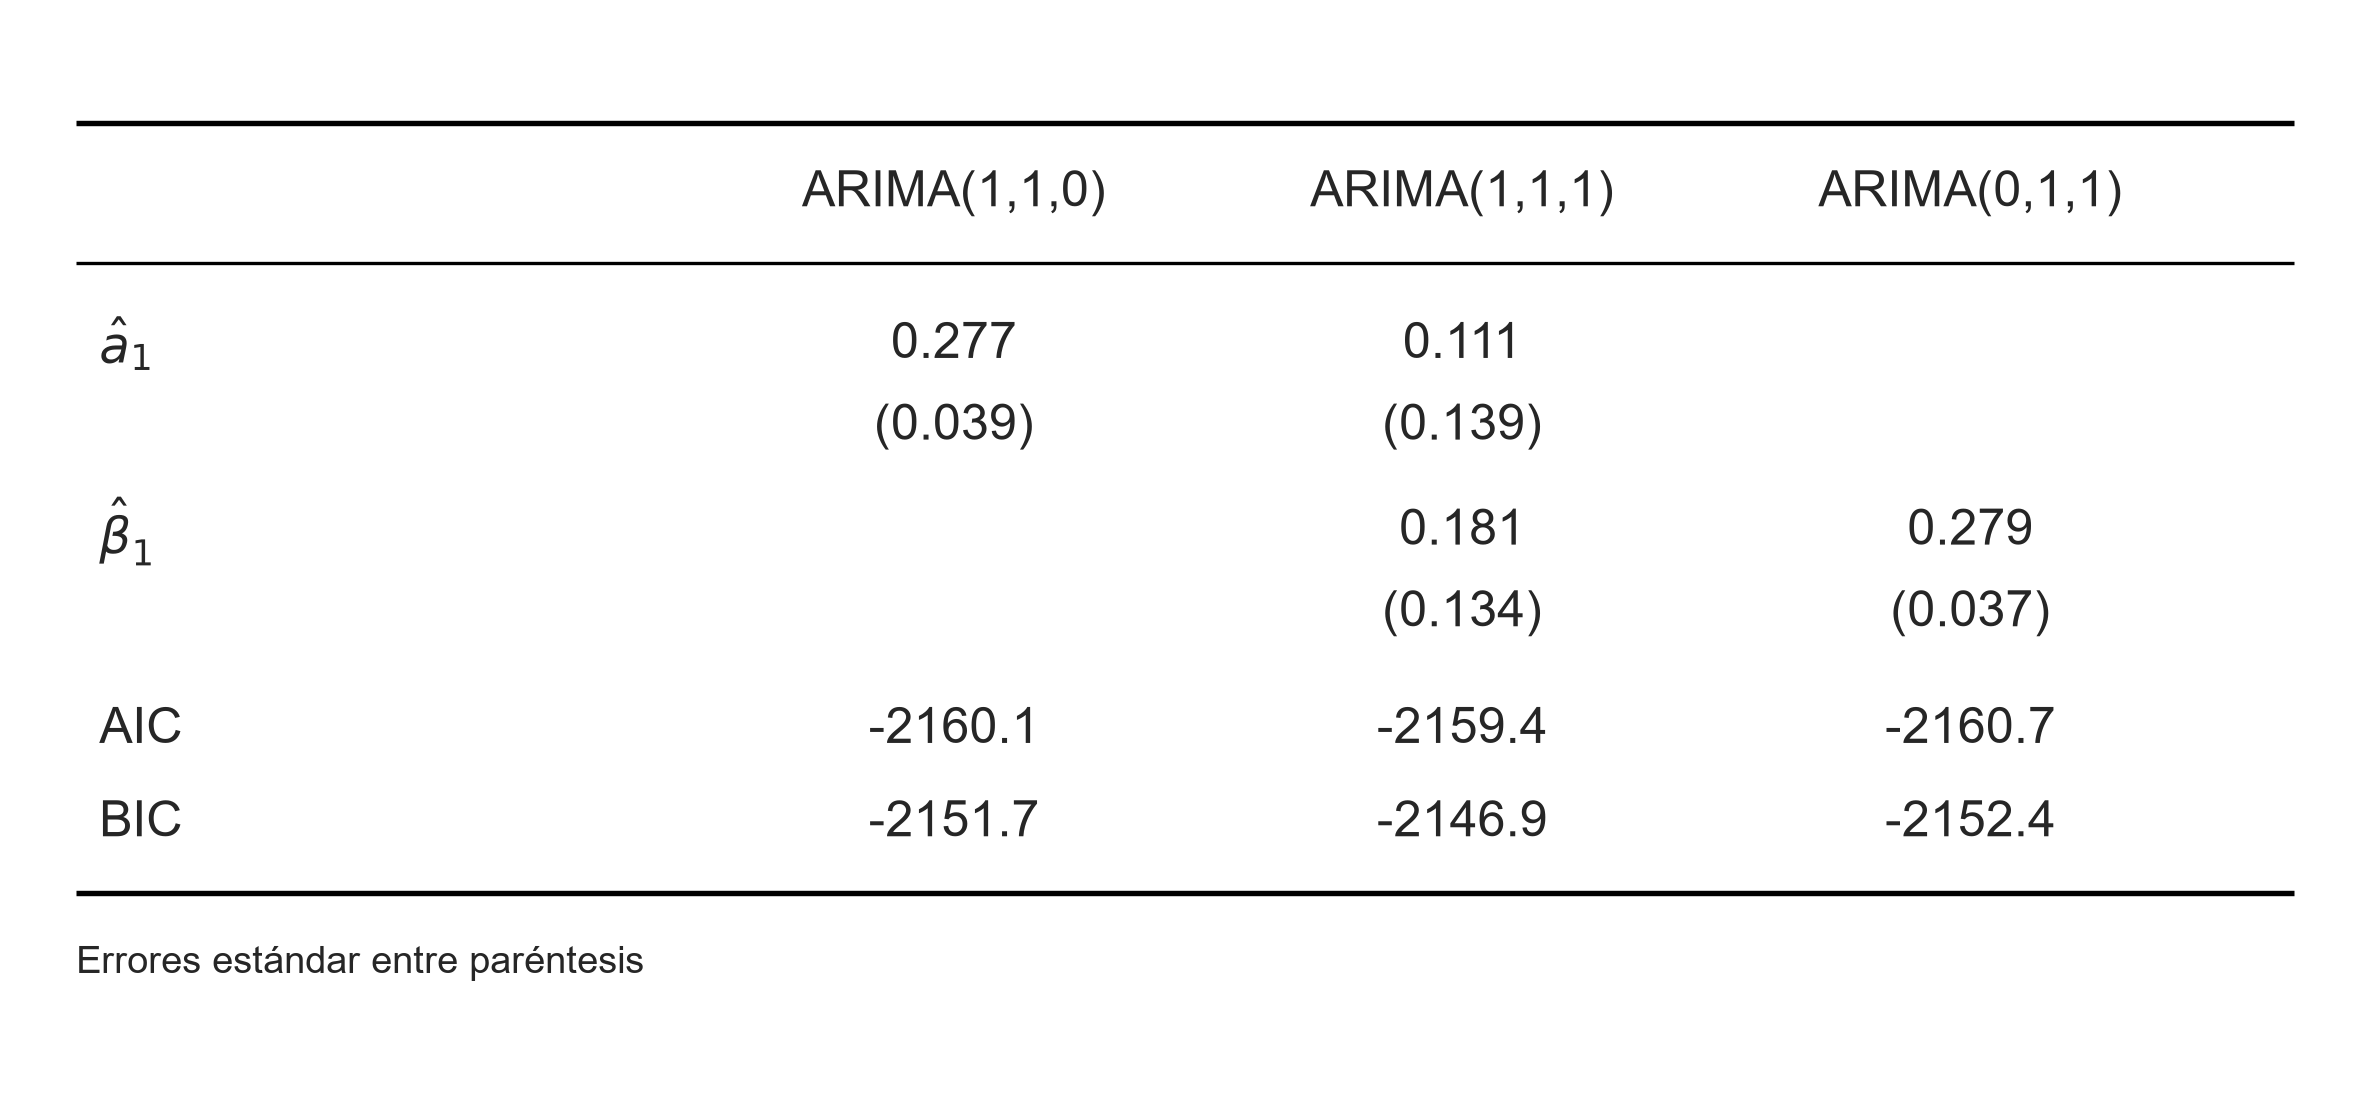
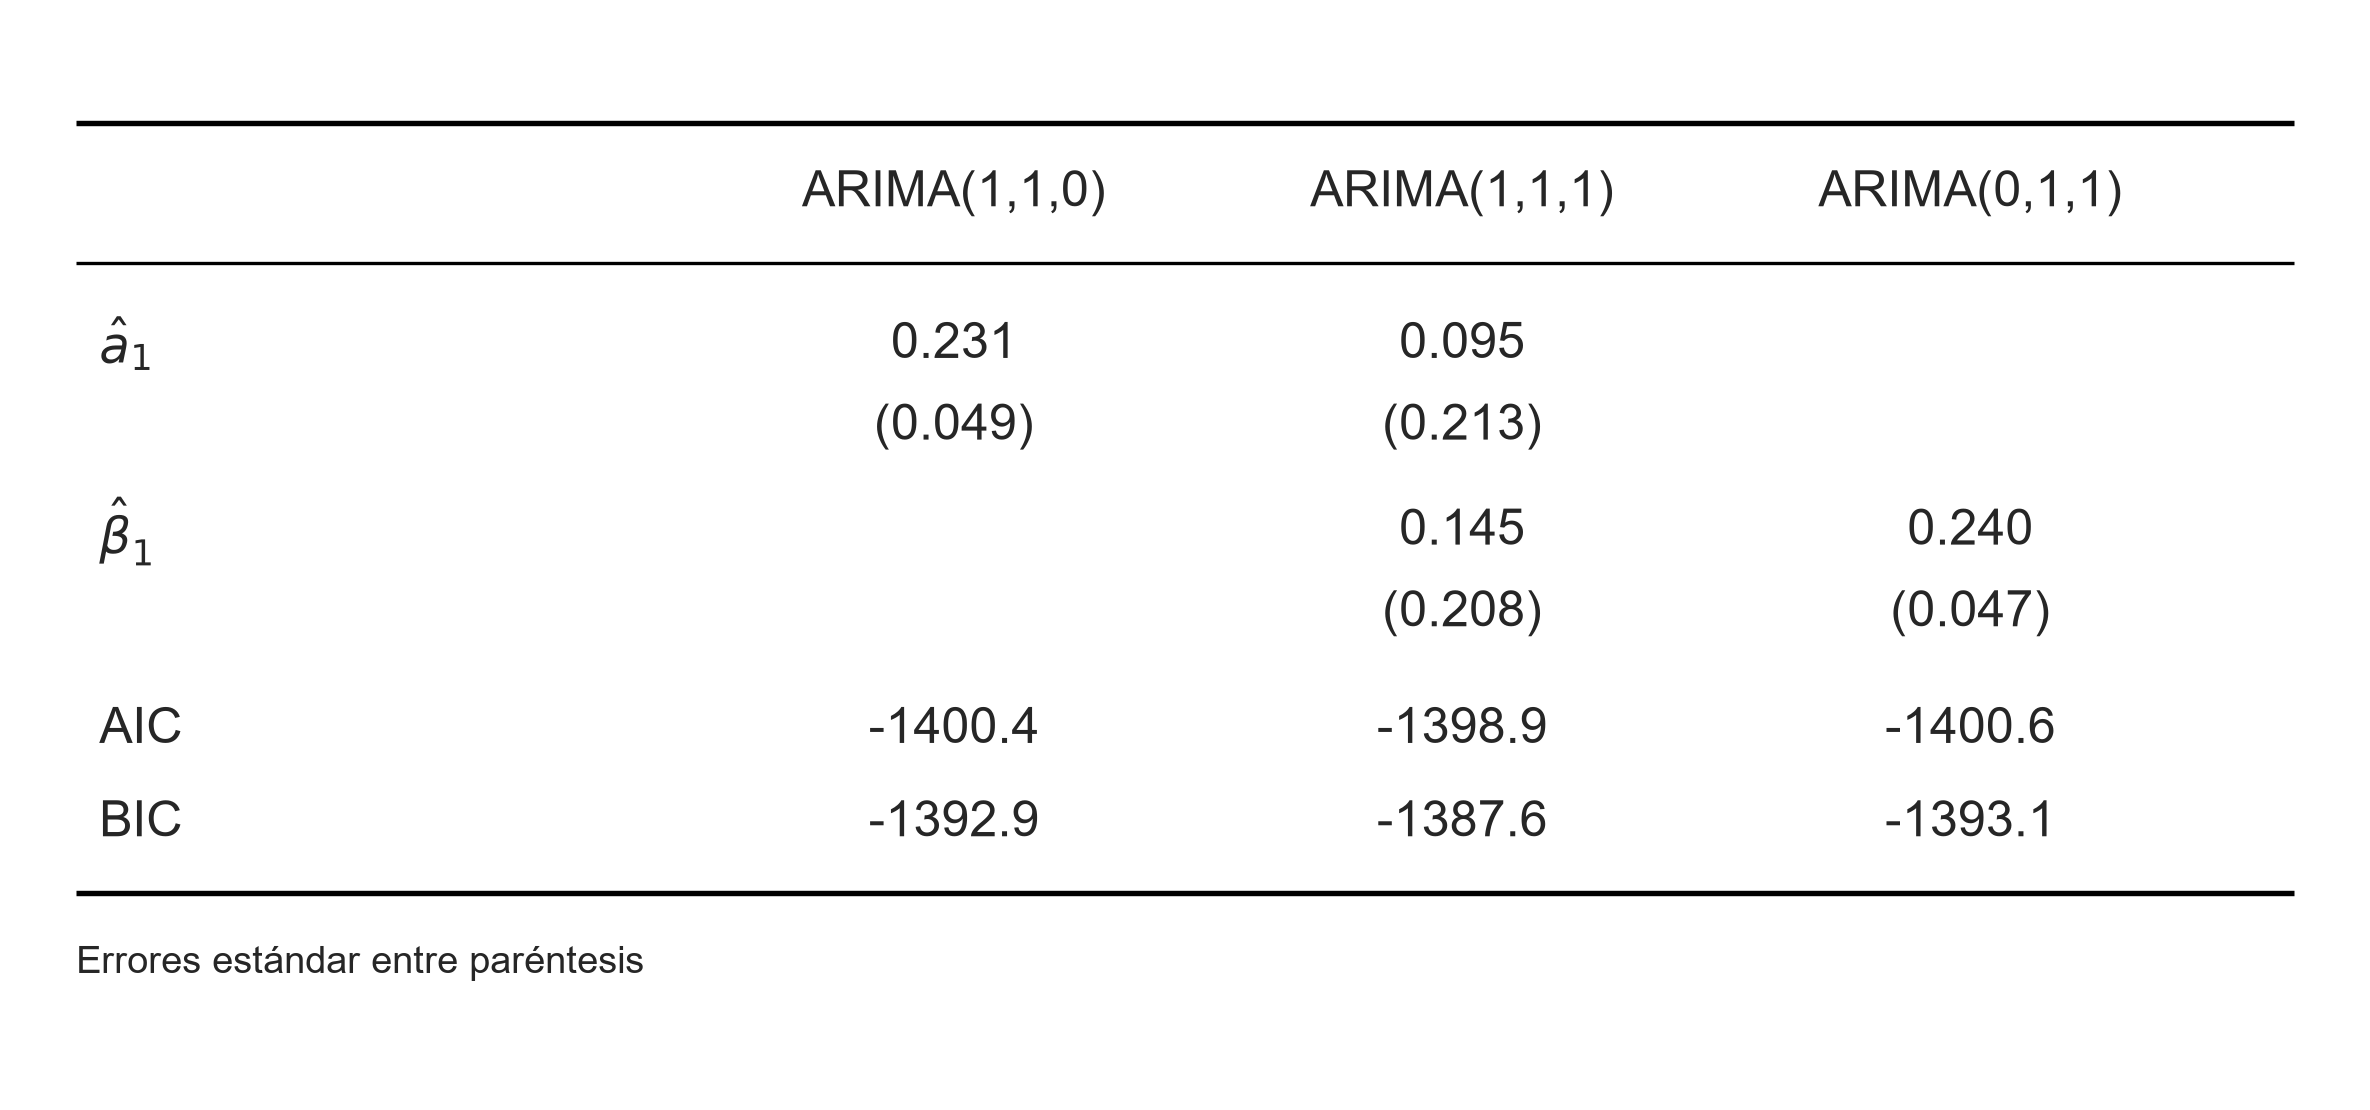
fin

diff --git a/Codigo/Modelado ITCR.py b/Codigo/Modelado ITCR.py
@@ -24,6 +24,7 @@ df.columns = ["Fecha", "ITCR_ipp", "ITCR_ipc"]
 df["Fecha"] = pd.to_datetime(df["Fecha"])
 df = df.set_index("Fecha")
 df.index = pd.DatetimeIndex(df.index, freq="ME")
+df= df.loc["2000":]
 
 # %% Grafico serie de tiempo en nivel
 sns.set_style("whitegrid")
@@ -59,8 +60,8 @@ plt.show()
 # %% Graficamos FAC y FACP
 series = df["ipc_porcentual"].dropna()
 fig, axes = plt.subplots(2, 1, figsize=(10,8))
-plot_acf(series,lags=36, alpha=0.05, ax=axes[0],linewidth=1,markersize=0, title="FAC de IPC")
-plot_pacf(series,lags=36, alpha=0.05, method="ywm", ax=axes[1],linewidth=1,markersize=0, title="FACP de IPC")
+plot_acf(series,lags=36, alpha=0.05, ax=axes[0],linewidth=1,markersize=0, title="FAC ITCR(IPC)")
+plot_pacf(series,lags=36, alpha=0.05, method="ywm", ax=axes[1],linewidth=1,markersize=0, title="FACP ITCR(IPC)")
 plt.show()
 
 # %% Ralizamos pruebas aic y bic para determinar el modelo arima, y su tabla
@@ -252,3 +253,4 @@ ax.legend()
 plt.tight_layout()
 plt.show()
 # %%
+
